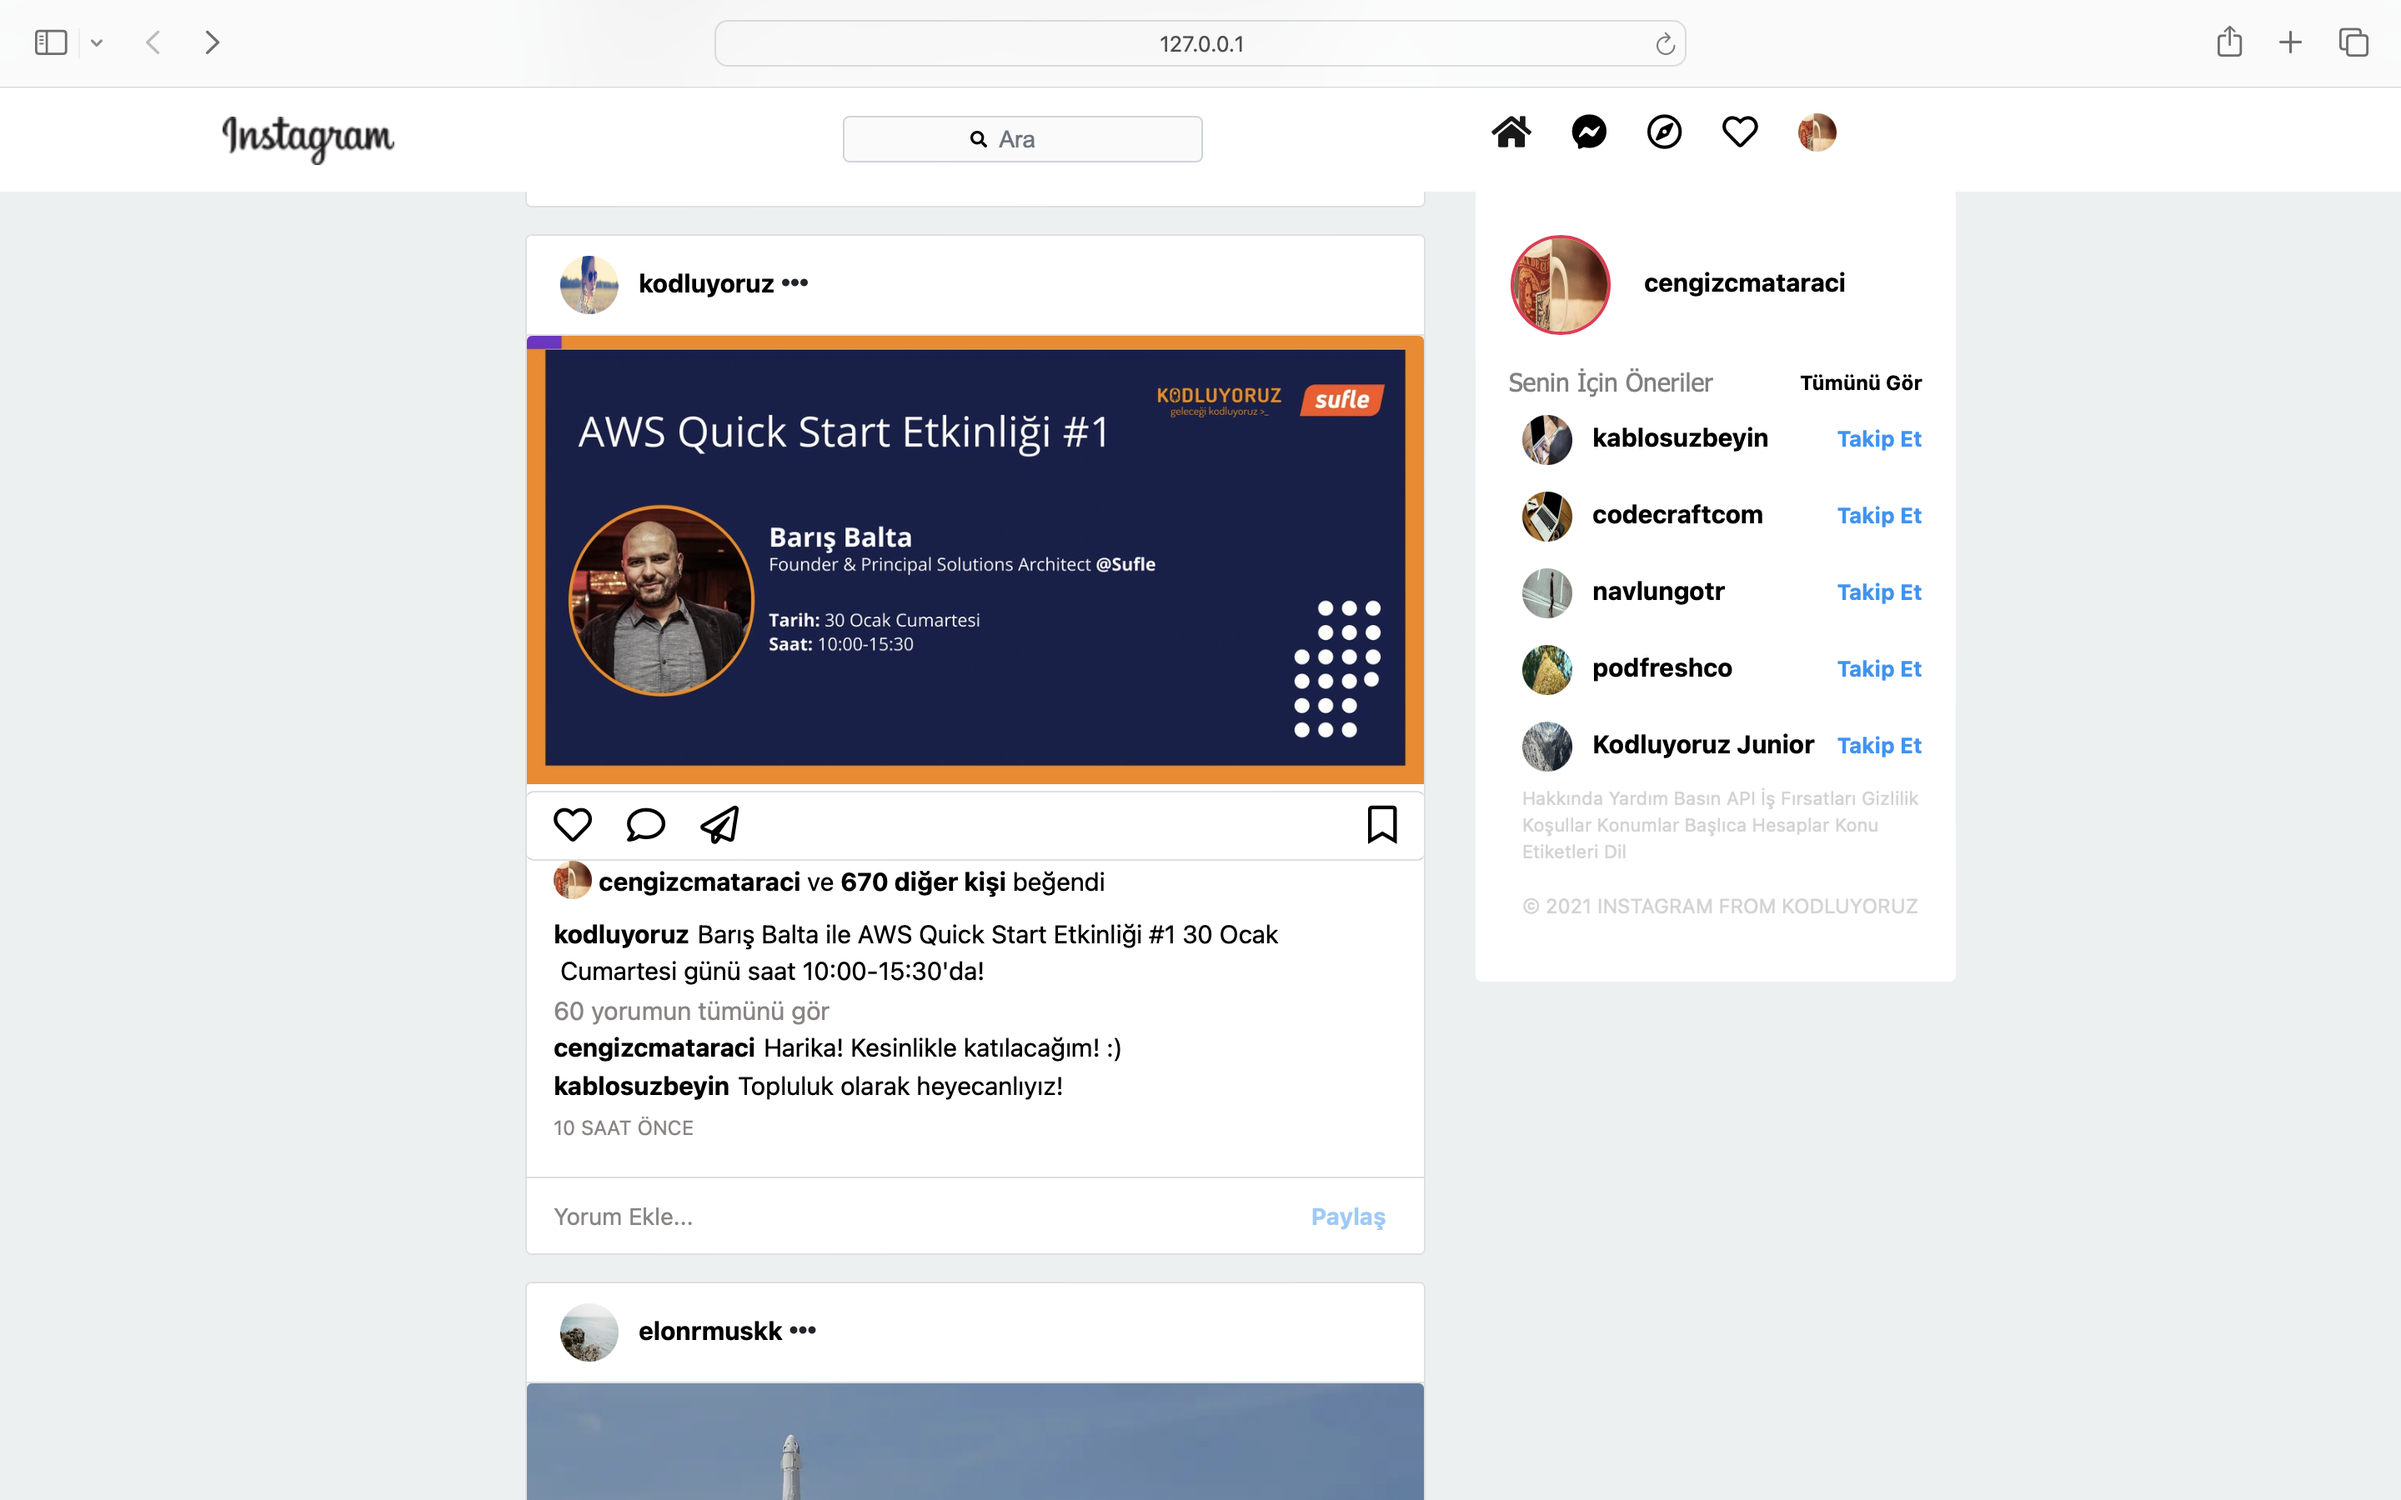
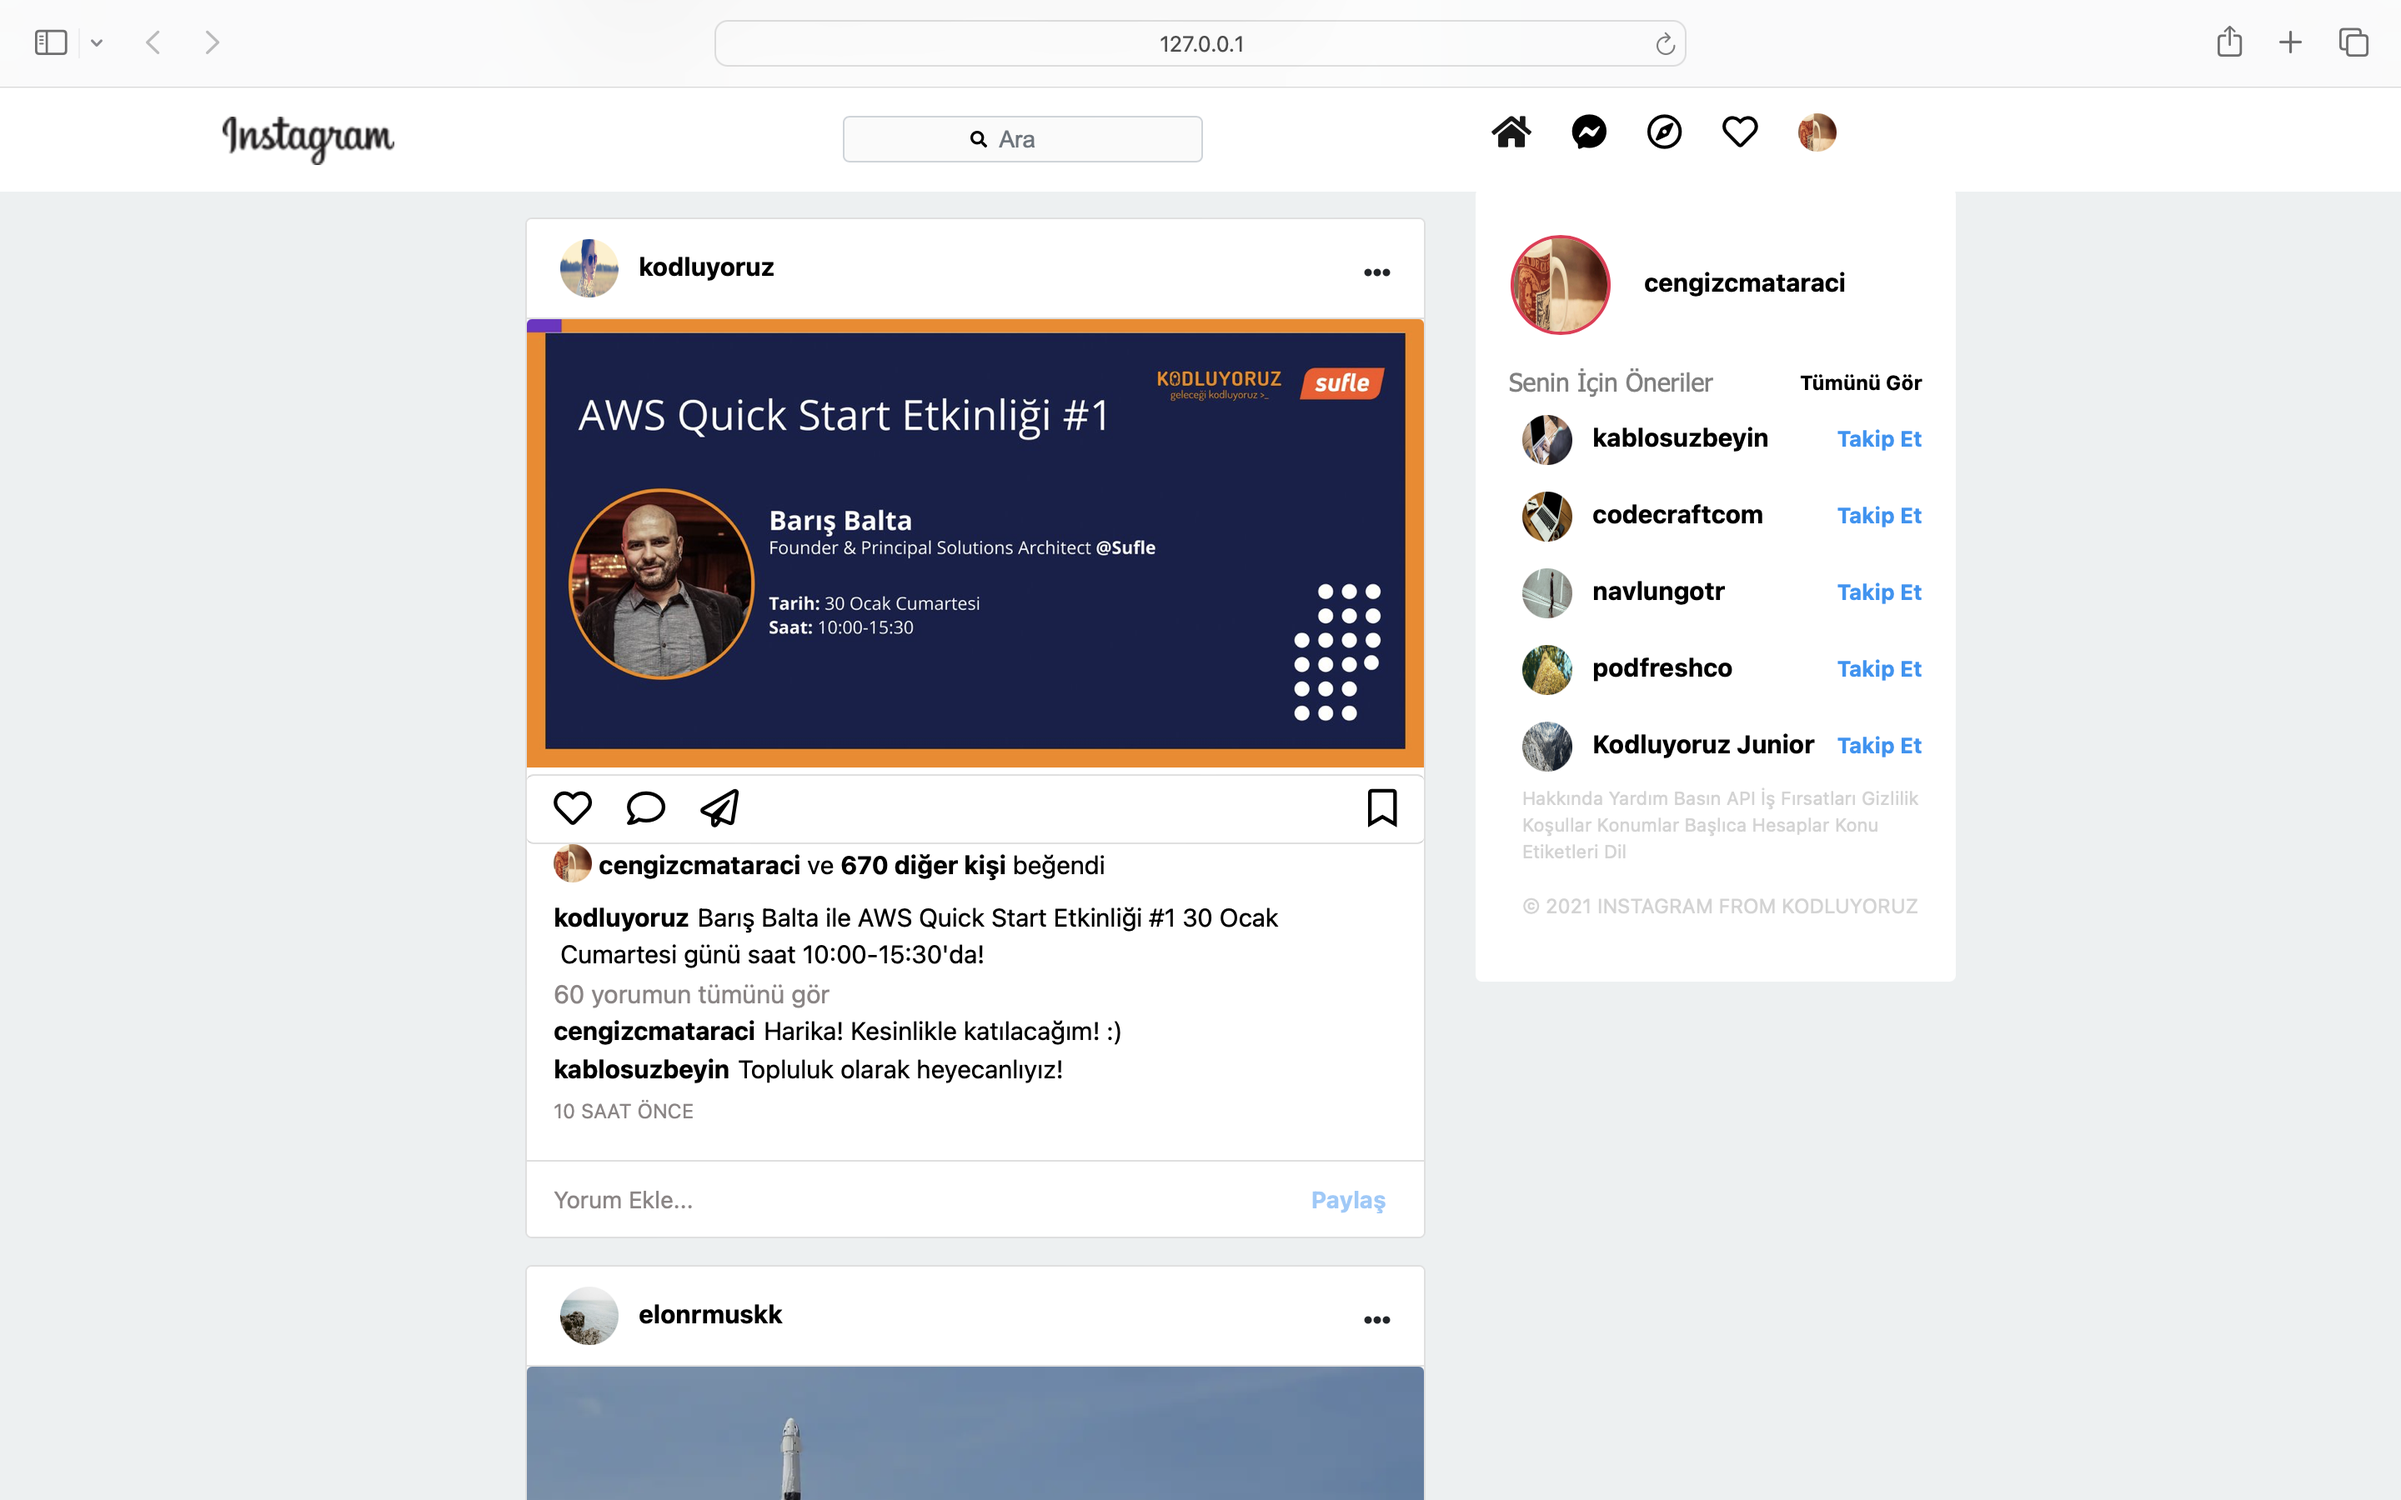
Completed

diff --git a/Week-3/odev2/index.html b/Week-3/odev2/index.html
@@ -155,7 +155,7 @@
                 style="width: 35px; height: 35px; border-radius: 50%"
               />
               <span class="postuserfont"><strong><a href="https://www.instagram.com/cengizcmataraci" target="_blank" style="color: black;">cengizcmataraci</a></strong></span>
-              <span class="mt-2"
+              <span class="mt-2 float-right"
                 ><strong><i class="fas fa-ellipsis-h"></i></strong
               ></span>
             </div>
@@ -284,11 +284,11 @@
             <div class="card-header bg-white">
               <img
                 src="https://picsum.photos/id/64/1600/600"
-                class="mr-2"
+                class="mr-2 text-right"
                 style="width: 35px; height: 35px; border-radius: 50%"
               />
               <span class="postuserfont"><strong>kodluyoruz</strong></span>
-              <span class="mt-2"
+              <span class="mt-2 float-right"
                 ><strong><i class="fas fa-ellipsis-h"></i></strong
               ></span>
             </div>
@@ -421,7 +421,7 @@
                 style="width: 35px; height: 35px; border-radius: 50%"
               />
               <span class="postuserfont"><strong>elonrmuskk</strong></span>
-              <span class="mt-2"
+              <span class="mt-2 float-right"
                 ><strong><i class="fas fa-ellipsis-h"></i></strong
               ></span>
             </div>
